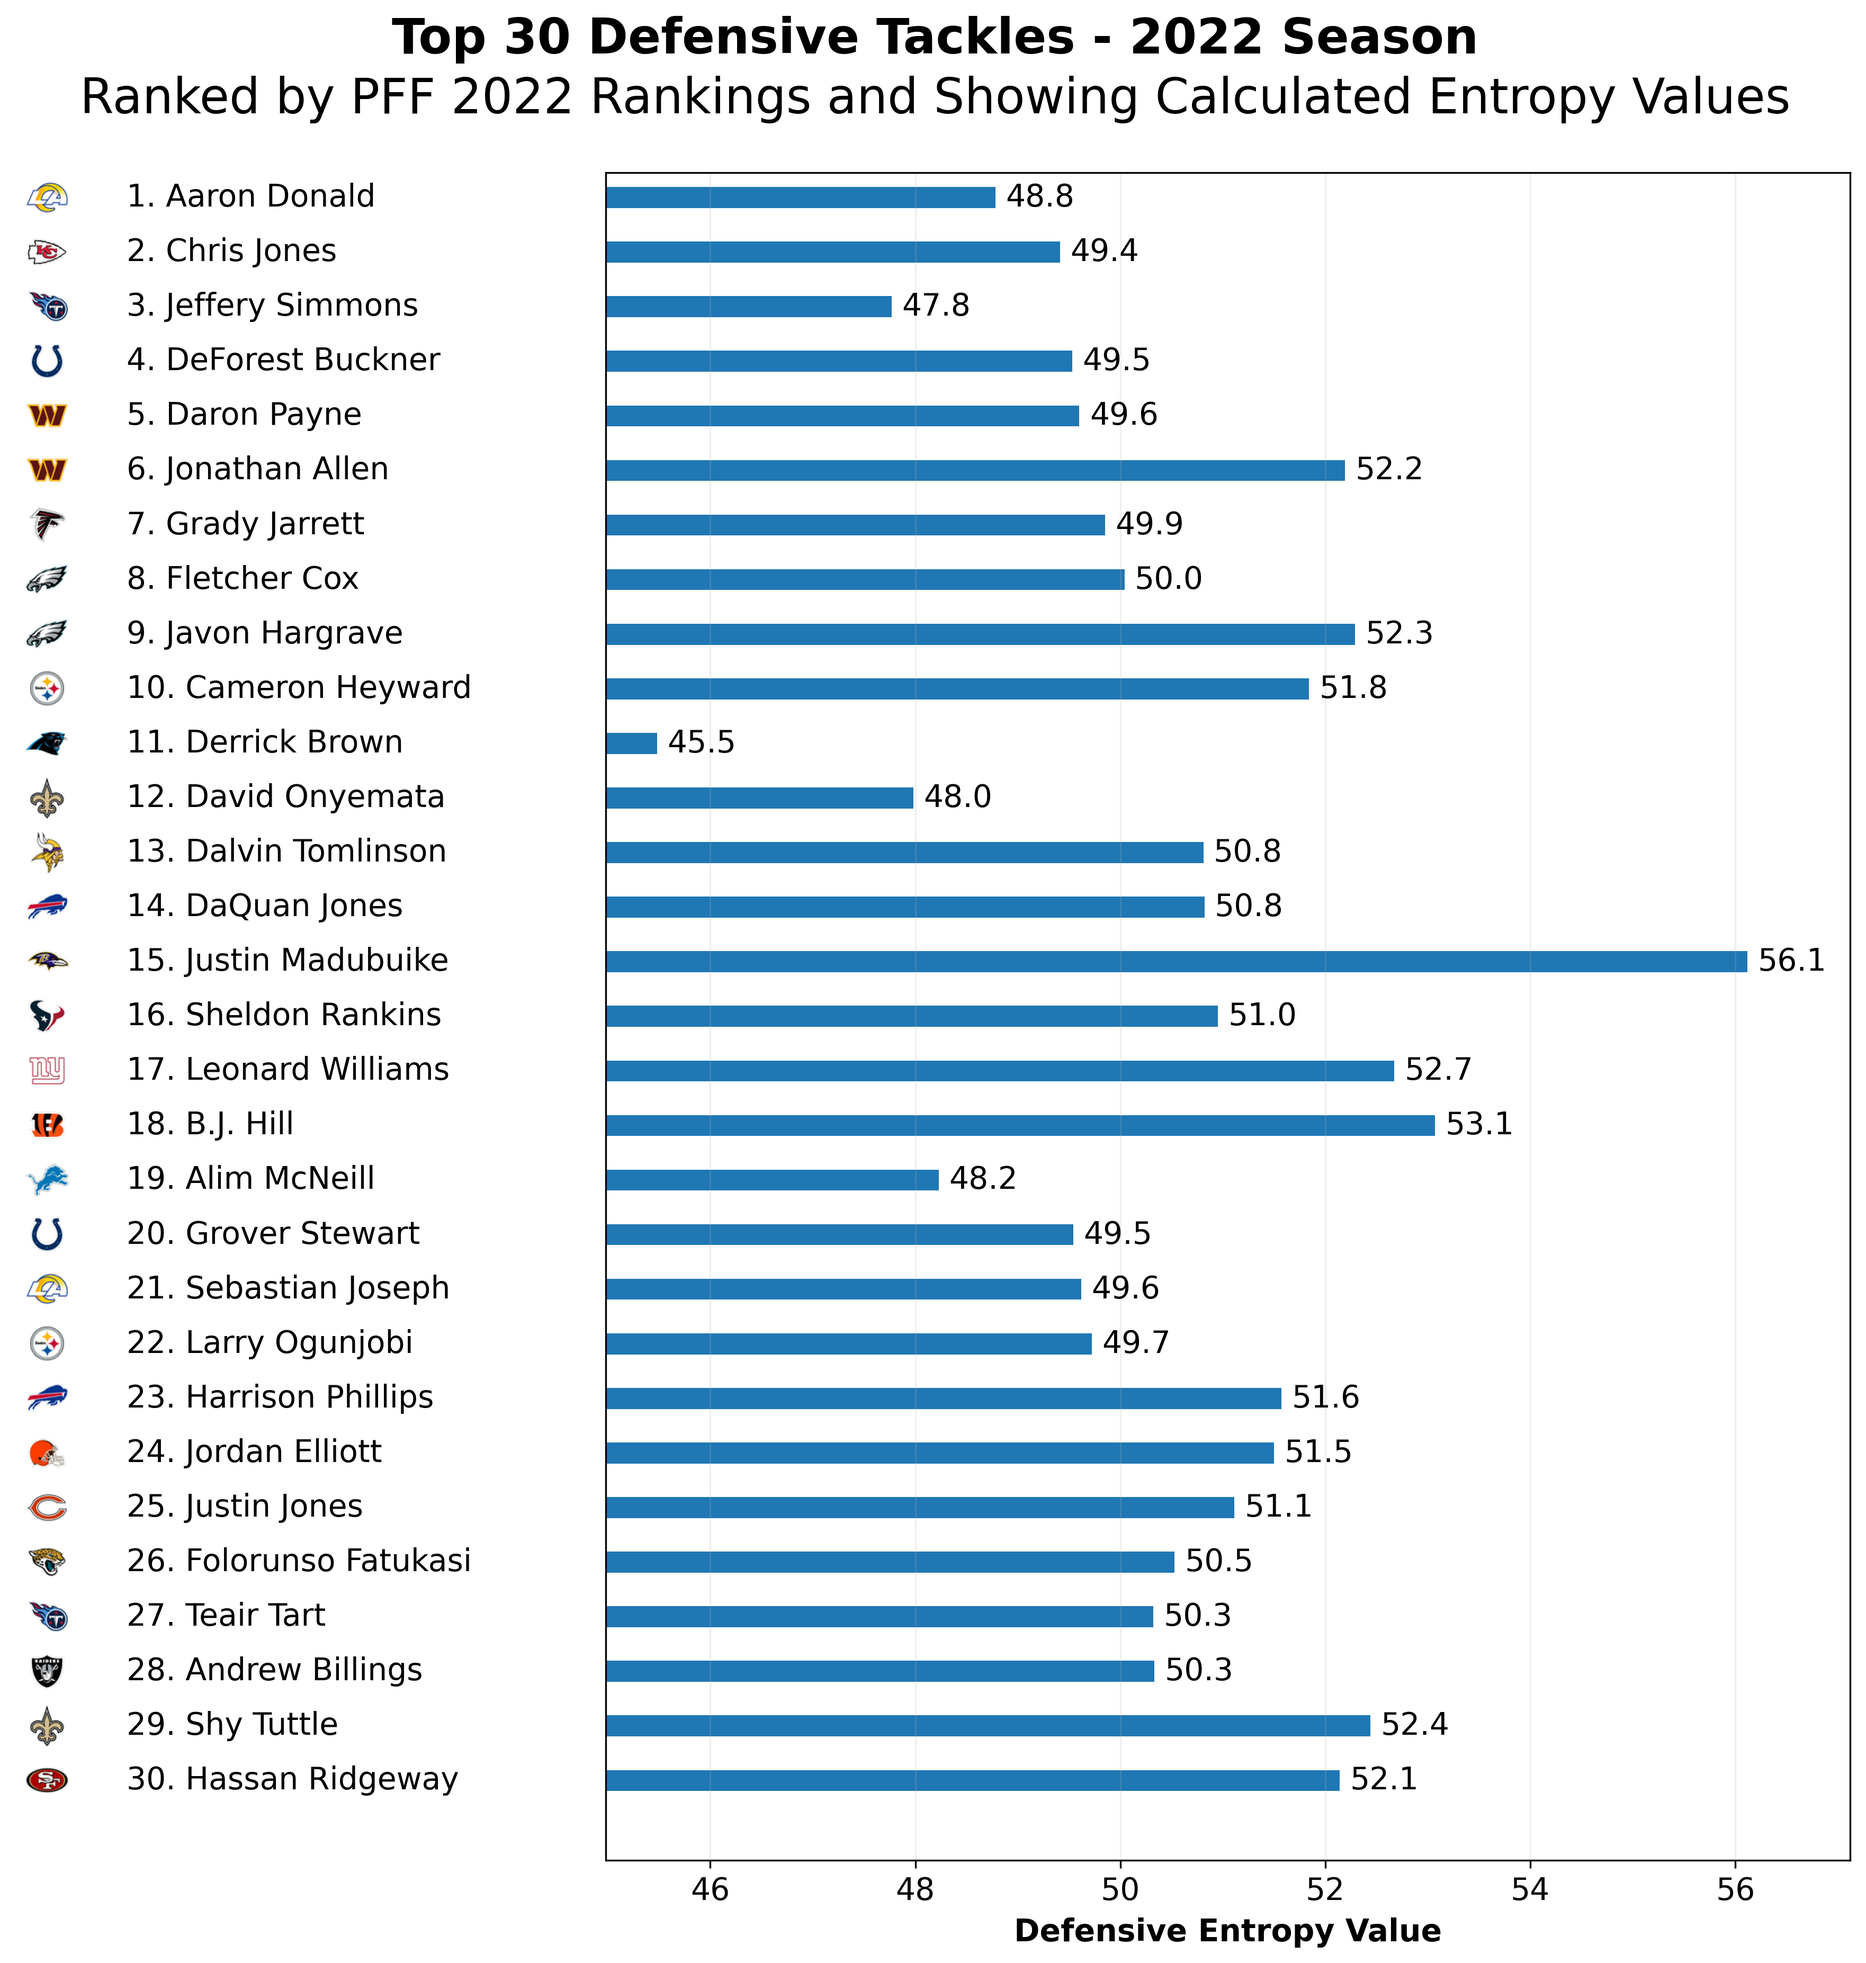
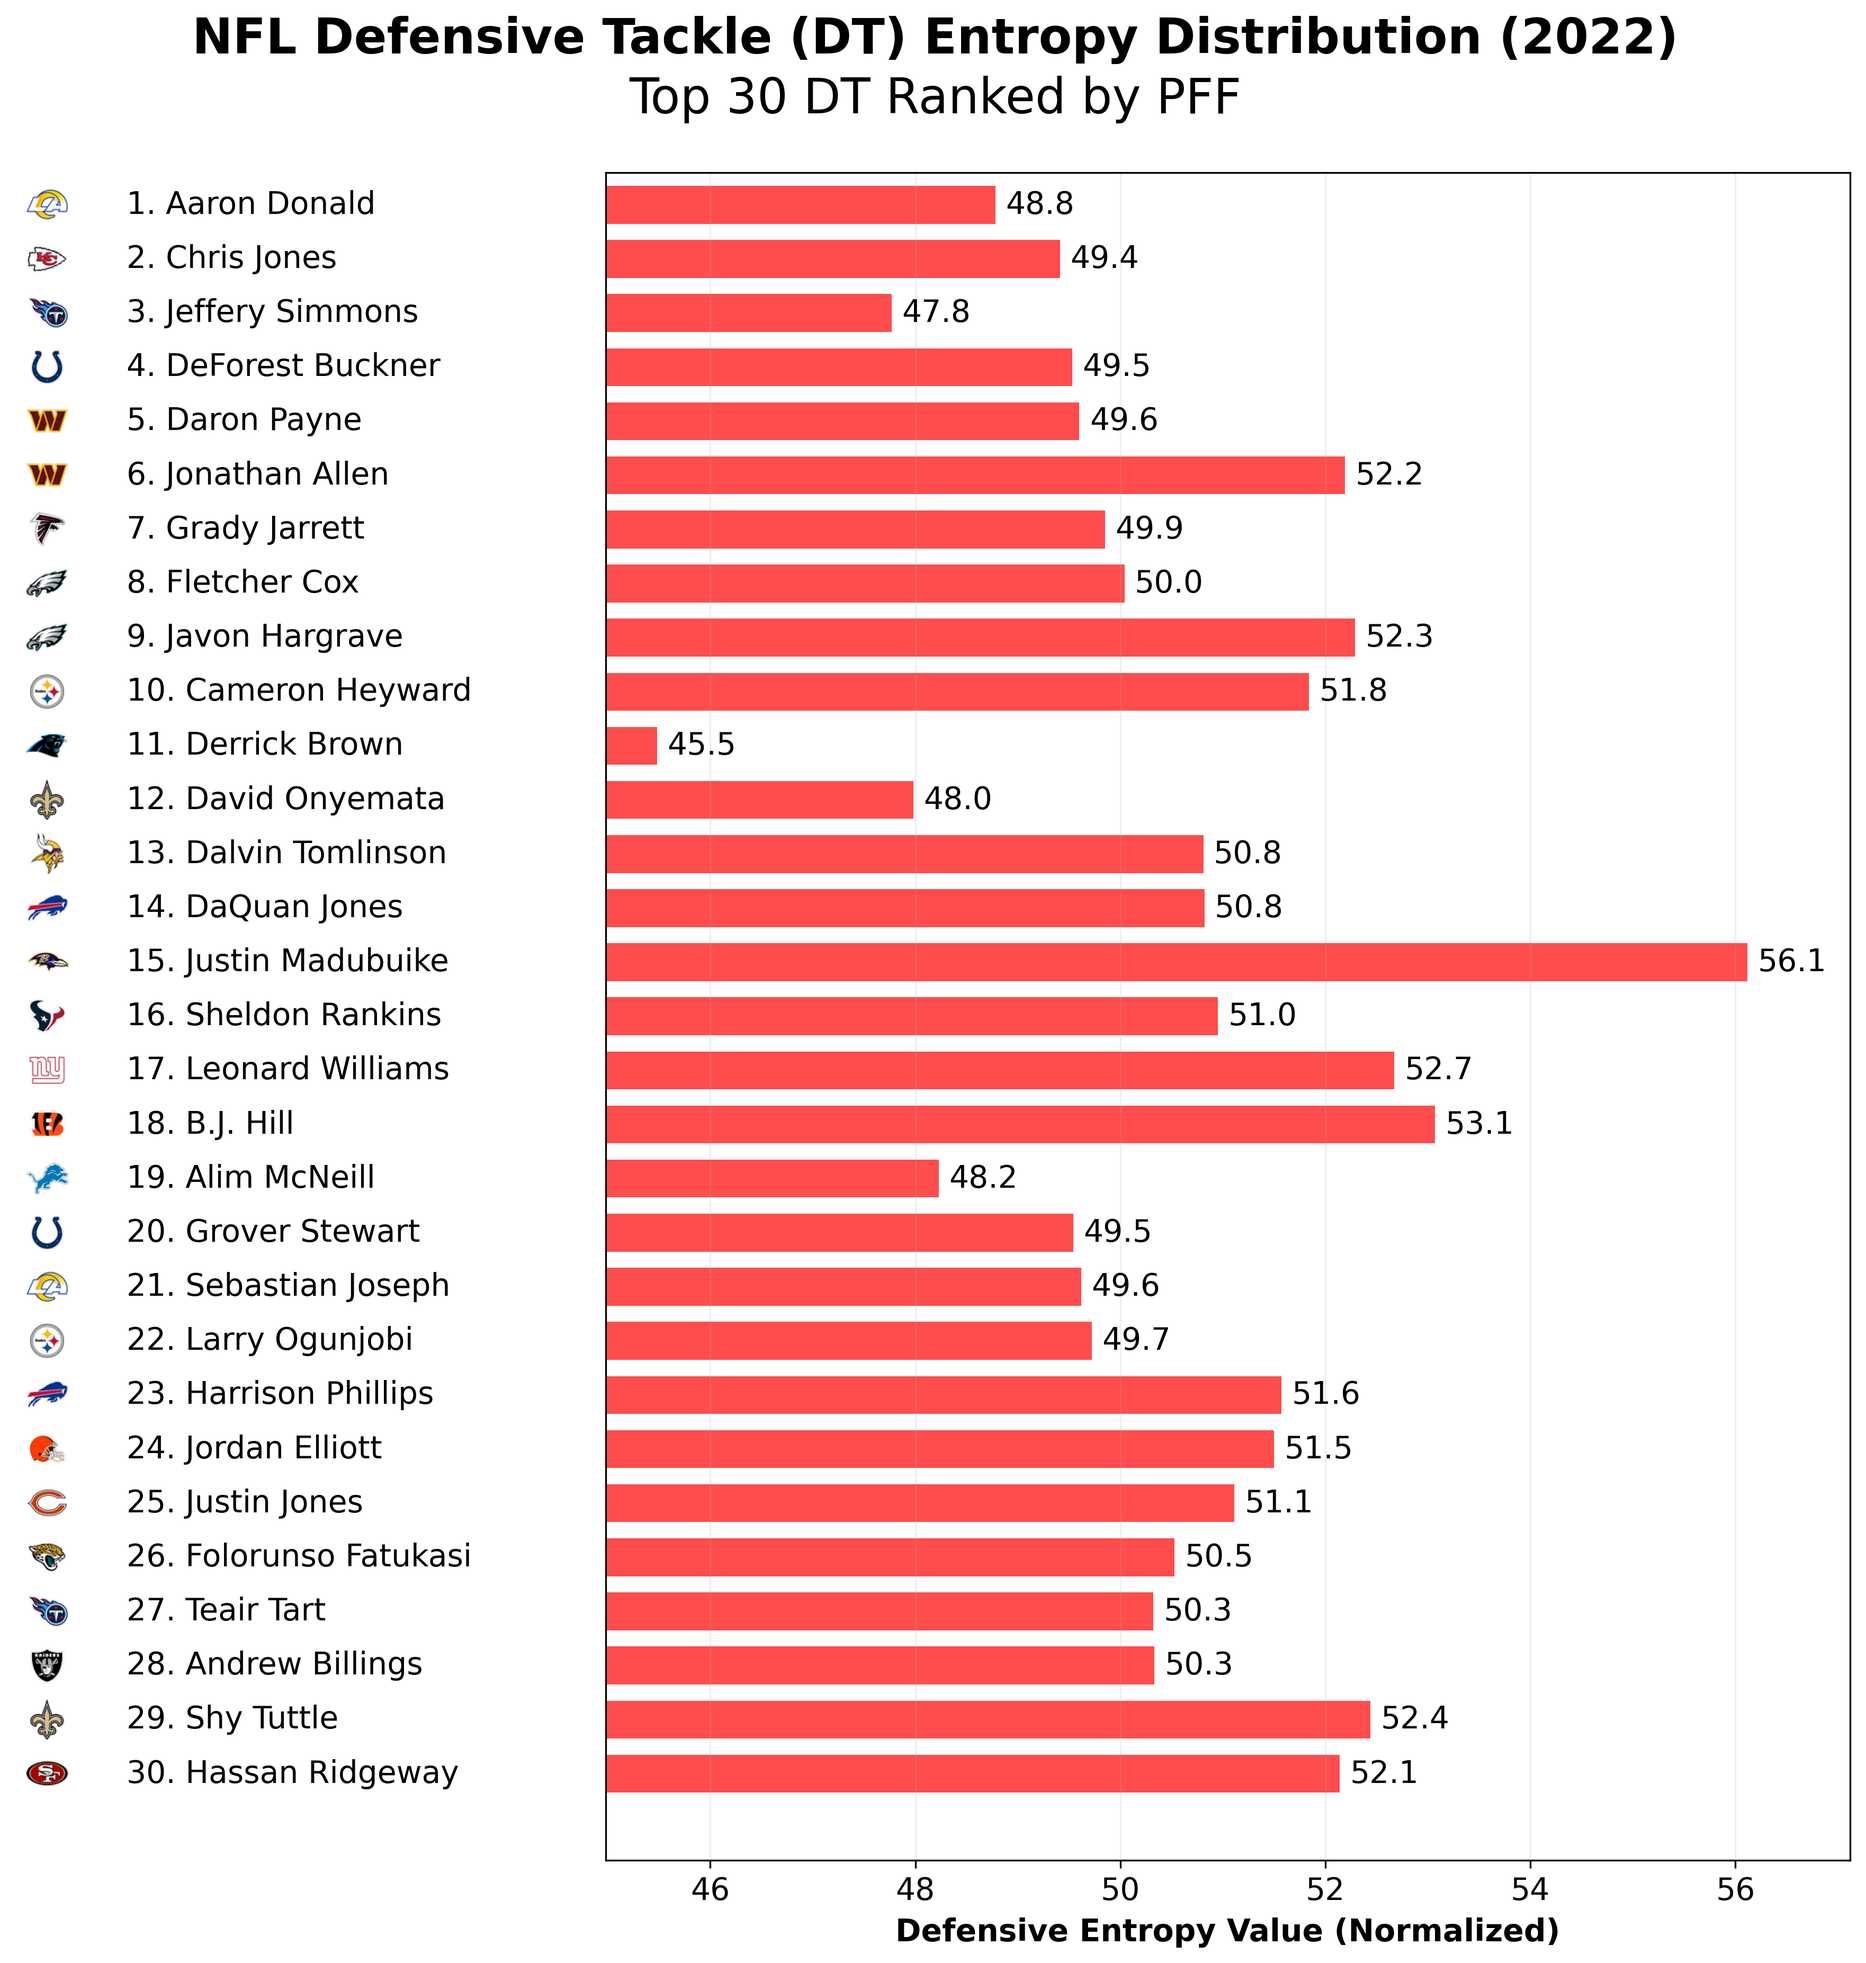
revamping visuals

diff --git a/visualize_olb_rankings.py b/visualize_olb_rankings.py
@@ -25,19 +25,27 @@ data = {
         'TB', 'TEN', 'JAX', 'NYG', 'CIN'
     ],
     'Entropy': [
-        52.34, 51.89, 51.76, 51.45, 51.23,
-        50.98, 50.87, 50.65, 50.43, 50.21,
-        49.98, 49.76, 49.54, 49.32, 49.10,
-        48.87, 48.65, 48.43, 48.21, 47.98,
-        47.76, 47.54, 47.32, 47.10, 46.87,
-        46.65, 46.43, 46.21, 45.98, 45.76
+        51.33, 55.72, 53.06, 45.39, 46.22,
+        47.56, 49.79, 50.65, 46.80, 47.56,
+        52.98, 49.76, 51.92, 55.72, 47.71,
+        49.83, 42.11, 48.47, 47.71, 54.71,
+        51.16, 47.54, 46.22, 53.84, 48.57,
+        50.82, 46.43, 52.40, 45.98, 47.56
     ]
 }
 
 df = pd.DataFrame(data)
 
 def get_image(path):
-    return OffsetImage(plt.imread(path), zoom=0.4)
+    try:
+        from PIL import Image
+        img = Image.open(path)
+        if img.mode != 'RGBA':
+            img = img.convert('RGBA')
+        return OffsetImage(img, zoom=0.4)
+    except Exception as e:
+        print(f"Warning: Could not load logo {path}: {e}")
+        return None
 
 # Set the style
 plt.style.use('default')
@@ -49,7 +57,7 @@ fig, (ax_names, ax_bars) = plt.subplots(1, 2, figsize=(12, 12.5),
                                        gridspec_kw={'width_ratios': [0.8, 1.7]})
 
 # Create y positions
-y_positions = np.arange(len(df)*0.65, 0, -0.65)
+y_positions = np.arange(len(df)*0.5, 0, -0.5)
 
 # Add player names and logos in the left subplot
 for i, (_, row) in enumerate(df.iterrows()):
@@ -57,16 +65,17 @@ for i, (_, row) in enumerate(df.iterrows()):
     logo_path = f"logos/{row['Team']}.png"
     if os.path.exists(logo_path):
         logo = get_image(logo_path)
-        ab = AnnotationBbox(logo, (0.05, y_positions[i]),
-                          frameon=False, box_alignment=(0.5, 0.5))
-        ax_names.add_artist(ab)
+        if logo is not None:
+            ab = AnnotationBbox(logo, (0.05, y_positions[i]),
+                              frameon=False, box_alignment=(0.5, 0.5))
+            ax_names.add_artist(ab)
     
     # Add rank and player name
     ax_names.text(0.2, y_positions[i], f"{row['Rank']}. {row['Player']}", 
                  fontsize=14, va='center', ha='left')
 
 # Create horizontal bars
-bars = ax_bars.barh(y_positions, df['Entropy'], height=0.25, color='#1f77b4')
+bars = ax_bars.barh(y_positions, df['Entropy'], height=0.35, color='green', alpha=0.7)
 
 # Add entropy values at the end of each bar
 for i, value in enumerate(df['Entropy']):
@@ -74,17 +83,17 @@ for i, value in enumerate(df['Entropy']):
                 va='center', ha='left', fontsize=14)
 
 # Customize plots with two-line title
-fig.text(0.5, 0.96, 'Top 30 Outside Linebackers - 2022 Season', 
+fig.text(0.5, 0.96, 'NFL Outside Linebacker (OLB) Entropy Distribution (2022)', 
          fontsize=22, fontweight='bold', ha='center')
-fig.text(0.5, 0.93, 'Ranked by PFF 2022 Rankings and Showing Calculated Entropy Values', 
+fig.text(0.5, 0.93, 'Top 30 OLB Ranked by PFF', 
          fontsize=22, ha='center')
 
 # Set axis labels
-ax_bars.set_xlabel('Defensive Entropy Value', fontsize=14, fontweight='bold', labelpad=5)
+ax_bars.set_xlabel('Defensive Entropy Value (Normalized)', fontsize=14, fontweight='bold', labelpad=5)
 
 # Set axis limits
 ax_names.set_xlim(0, 1.1)
-ax_bars.set_xlim(min(df['Entropy']) - 0.5, max(df['Entropy']) + 1)
+ax_bars.set_xlim(40, 60)
 
 # Remove y-axis ticks and labels
 ax_names.set_yticks([])
@@ -104,6 +113,7 @@ ax_names.set_xticks([])
 # Add grid to bars subplot
 ax_bars.grid(True, axis='x', alpha=0.2)
 ax_bars.tick_params(axis='x', labelsize=14)
+ax_bars.set_xticks(np.arange(40, 65, 5))  # Set x-axis ticks every 5 units from 40 to 60
 
 # Adjust layout
 plt.subplots_adjust(wspace=0, top=0.90, bottom=0.05, left=0.02, right=0.98)

diff --git a/visualize_dt_rankings.py b/visualize_dt_rankings.py
@@ -49,7 +49,7 @@ fig, (ax_names, ax_bars) = plt.subplots(1, 2, figsize=(12, 12.5),
                                        gridspec_kw={'width_ratios': [0.8, 1.7]})
 
 # Create y positions
-y_positions = np.arange(len(df)*0.65, 0, -0.65)
+y_positions = np.arange(len(df)*0.5, 0, -0.5)
 
 # Add player names and logos in the left subplot
 for i, (_, row) in enumerate(df.iterrows()):
@@ -66,7 +66,7 @@ for i, (_, row) in enumerate(df.iterrows()):
                  fontsize=14, va='center', ha='left')
 
 # Create horizontal bars
-bars = ax_bars.barh(y_positions, df['Entropy'], height=0.25, color='#1f77b4')
+bars = ax_bars.barh(y_positions, df['Entropy'], height=0.35, color='red', alpha=0.7)
 
 # Add entropy values at the end of each bar
 for i, value in enumerate(df['Entropy']):
@@ -74,13 +74,13 @@ for i, value in enumerate(df['Entropy']):
                 va='center', ha='left', fontsize=14)
 
 # Customize plots with two-line title
-fig.text(0.5, 0.96, 'Top 30 Defensive Tackles - 2022 Season', 
+fig.text(0.5, 0.96, 'NFL Defensive Tackle (DT) Entropy Distribution (2022)', 
          fontsize=22, fontweight='bold', ha='center')
-fig.text(0.5, 0.93, 'Ranked by PFF 2022 Rankings and Showing Calculated Entropy Values', 
+fig.text(0.5, 0.93, 'Top 30 DT Ranked by PFF', 
          fontsize=22, ha='center')
 
 # Set axis labels
-ax_bars.set_xlabel('Defensive Entropy Value', fontsize=14, fontweight='bold', labelpad=5)
+ax_bars.set_xlabel('Defensive Entropy Value (Normalized)', fontsize=14, fontweight='bold', labelpad=5)
 
 # Set axis limits
 ax_names.set_xlim(0, 1.1)

diff --git a/download_team_logos.py b/download_team_logos.py
@@ -31,7 +31,15 @@ team_logos = {
     'CHI': 'https://static.www.nfl.com/image/private/f_auto/league/ra0poq2ivwyahbaq86d2',
     'JAX': 'https://static.www.nfl.com/image/private/f_auto/league/qycbib6ivrm9dqaexryk',
     'LV': 'https://static.www.nfl.com/image/private/f_auto/league/gzcojbzcyjgubgyb6xf2',
-    'SF': 'https://static.www.nfl.com/t_headshot_desktop_2x/f_auto/league/api/clubs/logos/SF'
+    'SF': 'https://static.www.nfl.com/t_headshot_desktop_2x/f_auto/league/api/clubs/logos/SF',
+    'DAL': 'https://static.www.nfl.com/image/private/f_auto/league/ieid8hoygzdlmzo0tnf6',
+    'NE': 'https://static.www.nfl.com/image/private/f_auto/league/moyfxx3dq5pio4aiftnc',
+    'MIA': 'https://static.www.nfl.com/image/private/f_auto/league/lits6p8ycthy9to70bnt',
+    'GB': 'https://static.www.nfl.com/image/private/f_auto/league/pln44vuzugjgipyidsre',
+    'SEA': 'https://static.www.nfl.com/t_headshot_desktop_2x/f_auto/league/api/clubs/logos/SEA',
+    'NYJ': 'https://static.www.nfl.com/image/private/f_auto/league/ekijosiae96gektbo4iw',
+    'DEN': 'https://static.www.nfl.com/image/private/f_auto/league/t0p7m5cjdjy18rnzzqbx',
+    'TB': 'https://static.www.nfl.com/t_headshot_desktop_2x/f_auto/league/api/clubs/logos/TB'
 }
 
 def download_and_resize_logo(team, url, size=(50, 50)):
